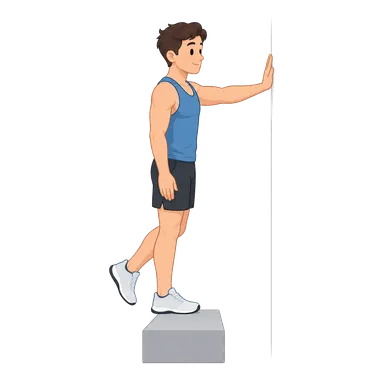
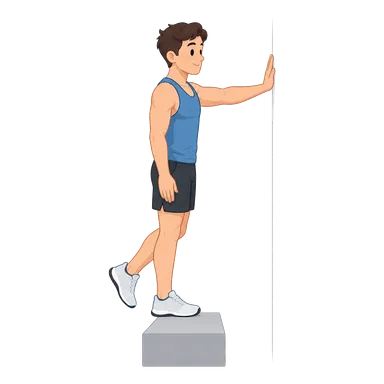
Laps on a phone: the zone square, no key; calf-raise finish picture dropped
The zone key and the Z label beside each lap are gone again: the Time in
zone panel above the laps already names every colour, and the steps tables
and the ride diagram name theirs. On a phone a lap's zone is a small square
at the start of its row, as in the steps table, one line per lap. The ride
page and Progress keep their plain text key as before.
The calf raise's finish picture is left out (a heel lift does not read at
tile size); the script skips it, the list has 47 finish pictures.

Claude-Session: https://claude.ai/code/session_01PXXhDtRN2pQ9cXAmNak7te

diff --git a/src/ui/RideCharts.tsx b/src/ui/RideCharts.tsx
@@ -1,4 +1,3 @@
-import { ZoneKey } from './ZoneKey';
 import type { StreamSet } from '../data/db';
 import { clock } from '../engine/workout';
 import { HR_ZONES, POWER_ZONES, hrZone, powerZone, type Zone } from '../engine/zones';
@@ -53,14 +52,14 @@ export function LapsTable({ intervals, ftp, lthr, hrZones = HR_ZONES, powerZones
   return (
     <>
       <table class="steps laps">
-        <tr><td class="faint small lap-num">#</td><td class="faint small">Lap</td><td class="r faint small">Time</td>{distance?.length ? <td class="r faint small">Pace (per {imperial ? 'mile' : 'km'})</td> : null}{showPower && <td class="r faint small">Avg power</td>}<td class="r faint small">Avg HR</td><td class="faint small lap-barcol"><span class="wide-only">{byW ? `Power against FTP ${ftp} W` : `Heart rate against threshold ${lthr} bpm`}</span><span class="narrow-only r">Zone,<br />{byW ? '% of FTP' : '% of threshold'}</span></td></tr>
+        <tr><td class="faint small"><span class="wide-only">#</span></td><td class="faint small">Lap</td><td class="r faint small">Time</td>{distance?.length ? <td class="r faint small">Pace (per {imperial ? 'mile' : 'km'})</td> : null}{showPower && <td class="r faint small"><span class="wide-only">Avg power</span><span class="narrow-only">Power</span></td>}<td class="r faint small"><span class="wide-only">Avg HR</span><span class="narrow-only">HR</span></td><td class="faint small lap-barcol"><span class="wide-only">{byW ? `Power against FTP ${ftp} W` : `Heart rate against threshold ${lthr} bpm`}</span><span class="narrow-only r">{byW ? '% of FTP' : '% of threshold'}</span></td></tr>
         {rows.map((r, i) => {
           const v = byW ? r.avgWatts ?? 0 : r.avgHr ?? 0;
           const zone = byW ? powerZone(v / ftp, powerZones) : hrZone(v / ref, hrZones);
           const pctOfRef = Math.round((v / ref) * 100);
           return (
             <tr key={i}>
-              <td class="faint lap-num">{i + 1}</td>
+              <td class="faint"><span class="wide-only">{i + 1}</span><span class="z lap-z" style={`background:${ZONE_VAR[zone - 1]}`} /></td>
               <td>{r.label || (r.type ? r.type.charAt(0) + r.type.slice(1).toLowerCase() : `Lap ${i + 1}`)}</td>
               <td class="r num">{clock(Math.round(r.end - r.start))}</td>
               {distance?.length ? <td class="r num">{lapPace(r) ?? '–'}</td> : null}
@@ -69,15 +68,14 @@ export function LapsTable({ intervals, ftp, lthr, hrZones = HR_ZONES, powerZones
               <td class="lap-barcol" title={`${pctOfRef}% of ${byW ? 'FTP' : 'threshold heart rate'} · zone ${zone}`}>
                 <div class="lap-cell">
                   <span class="lap-bar"><span class="zb-track"><span class="zb-fill" style={`width:${Math.min(100, (v / scaleTop) * 100)}%;background:${ZONE_VAR[zone - 1]}`} /></span><span class="lap-ref" style={`left:${refPct}%`} /></span>
-                  <span class="lap-zone"><i style={`background:${ZONE_VAR[zone - 1]}`} />Z{zone}</span><span class="lap-pct faint small">{pctOfRef}%</span>
+                  <span class="lap-pct faint small">{pctOfRef}%</span>
                 </div>
               </td>
             </tr>
           );
         })}
       </table>
-      <ZoneKey style="margin-top:8px" />
-      <p class="faint small" style="margin-top:6px"><span class="wide-only">Each bar is the lap's average {byW ? 'power' : 'heart rate'}, coloured by its zone (the zone is named beside it); the upright tick marks {byW ? 'your FTP' : 'your threshold heart rate'}, and the figure is the lap as a share of it.</span><span class="narrow-only">The last column is the lap's zone and its average {byW ? `power as a share of your FTP (${ftp} W)` : `heart rate as a share of your threshold heart rate (${lthr} bpm)`}.</span> Labels such as "Work" and "Recovery" are Intervals.icu's guess from the recording.</p>
+      <p class="faint small" style="margin-top:8px"><span class="wide-only">Each bar is the lap's average {byW ? 'power' : 'heart rate'}, coloured by its zone; the upright tick marks {byW ? 'your FTP' : 'your threshold heart rate'}, and the figure is the lap as a share of it.</span><span class="narrow-only">The square is the lap's zone, in the colours of Time in zone above; the figure is its average {byW ? `power as a share of your FTP (${ftp} W)` : `heart rate as a share of your threshold heart rate (${lthr} bpm)`}.</span> Labels such as "Work" and "Recovery" are Intervals.icu's guess from the recording.</p>
     </>
   );
 }

diff --git a/src/ui/screens/Help.tsx b/src/ui/screens/Help.tsx
@@ -154,7 +154,7 @@ const SECTIONS: Array<{ id: string; title: string; body: preact.JSX.Element }> =
           <Li><b>Not training</b>: a recording under five minutes (a watch button pressed by accident) or a "ride" at car speed counts 0 and is kept out of the list. A tick box at the top shows them; open one to delete it, or, if it really was a planned session, match it by hand on its page.</Li>
           <Li><b>The recording</b>: the map (green dot start, red finish) stays pinned while the charts scroll under it; move across any chart or along the route and the other follows, and on a planned ride the targets are shaded.</Li>
           <Li><b>Time in zone</b>: power zones and heart-rate zones side by side, with the zone key underneath. Heart rate lags power, so short hard efforts show more in the power zones. "12:48 of 30:38 with heart rate" means the strap only covered part of the activity.</Li>
-          <Li><b>Laps and intervals</b>: each bar is the lap's average power (or heart rate, without power), coloured by its zone; the upright tick is your FTP (or threshold heart rate), and the figure beside it is the lap as a percentage of it. Each lap's zone is named beside it (Z1 to Z7), and a key to the zone colours sits under the table, as it does under every chart and table coloured by zone. On a phone the bar is left out so the table fits the screen. Labels like "Work" and "Recovery" are Intervals.icu's guess from the recording, so a lap called Recovery can still sit in zone 3.</Li>
+          <Li><b>Laps and intervals</b>: each bar is the lap's average power (or heart rate, without power), coloured by its zone; the upright tick is your FTP (or threshold heart rate), and the figure beside it is the lap as a percentage of it. On a phone the bar gives way to a small square in the zone's colour at the start of the row, the same colours as Time in zone above it, so the table fits the screen. Labels like "Work" and "Recovery" are Intervals.icu's guess from the recording, so a lap called Recovery can still sit in zone 3.</Li>
         </ul>
       </>
     ),

diff --git a/src/styles/global.css b/src/styles/global.css
@@ -836,15 +836,17 @@ a.stat-link:hover .l, a.stat-link:focus-visible .l { color: var(--ink-2); }
 
 /* ---- fitting a phone (23 Oct) ---- */
 .narrow-only { display: none; }
+.laps .lap-z { display: none; margin-top: 0; }
 .zone-ed .zone-top { width: 72px; }
 @media (max-width: 520px) {
   .wide-only { display: none; }
   .narrow-only { display: inline; }
-  .laps td { padding: 8px 4px; font-size: 13px; }
-  .laps .lap-num { display: none; }
+  .laps td { padding: 8px 3px; font-size: 13px; }
+  .laps .lap-pct { width: auto; }
   .laps .lap-barcol { width: auto; min-width: 0; text-align: right; }
   .laps .lap-cell { justify-content: flex-end; gap: 5px; }
   .laps .lap-bar { display: none; }
+  .laps .lap-z { display: inline-block; }
   .zone-ed.mode-pct .zone-pct, .zone-ed.mode-abs .zone-abs { display: none; }
   .zone-ed td { padding: 8px 4px; }
   .zone-ed .zone-top { width: 60px; }
@@ -853,10 +855,3 @@ a.stat-link:hover .l, a.stat-link:focus-visible .l { color: var(--ink-2); }
 }
 @media (max-width: 520px) { .laps tr:first-child td { white-space: normal; } }
 @media (max-width: 520px) { .zone-ed .zone-top { width: 64px; padding-left: 6px; padding-right: 6px; } }
-
-/* the key to the zone colours, and a lap's zone */
-.zone-key { display: flex; flex-wrap: wrap; gap: 4px 12px; margin: 0; }
-.zone-key span { display: inline-flex; align-items: center; gap: 5px; white-space: nowrap; }
-.zone-key i, .lap-zone i { display: inline-block; width: 9px; height: 9px; border-radius: 2px; flex: 0 0 9px; }
-.lap-zone { display: inline-flex; align-items: center; gap: 4px; font-size: 12px; color: var(--ink-2); white-space: nowrap; }
-@media (max-width: 520px) { .laps .lap-cell { flex-direction: column; align-items: flex-end; gap: 1px; } }

diff --git a/src/ui/StepsTable.tsx b/src/ui/StepsTable.tsx
@@ -2,7 +2,6 @@ import type { Basis, Profile, WorkoutBlock, WorkoutStep } from '../engine/types'
 import { formatDuration, stepShare, stepTargets } from '../engine/workout';
 import { powerZone, ridePowerZones } from '../engine/zones';
 import { ZONE_VAR } from './Profile';
-import { ZoneKey } from './ZoneKey';
 
 /** A ride's steps with their targets in watts or bpm; sets show as a heading over the steps they repeat. */
 export function StepsTable({ blocks, basis, profile }: { blocks: WorkoutBlock[]; basis: Basis; profile: Profile }) {
@@ -13,7 +12,6 @@ export function StepsTable({ blocks, basis, profile }: { blocks: WorkoutBlock[];
   }
   const ladder = ridePowerZones(profile);
   return (
-    <>
     <table class="steps">
       <tr><td /><td class="faint small">Step</td><td class="r faint small">Time</td><td class="r faint small">% of FTP</td><td class={`r faint small${basis === 'power' ? '' : ' muted basis-off'}`}>Watts</td><td class={`r faint small${basis === 'hr' ? '' : ' muted basis-off'}`}>Heart rate</td></tr>
       {rows.map(({ step, set }, i) => {
@@ -35,7 +33,5 @@ export function StepsTable({ blocks, basis, profile }: { blocks: WorkoutBlock[];
         );
       })}
     </table>
-    <ZoneKey style="margin-top:8px" />
-    </>
   );
 }

diff --git a/src/ui/screens/Rides.tsx b/src/ui/screens/Rides.tsx
@@ -25,8 +25,7 @@ import { addDays, today } from '../../engine/load';
 import { Empty, PageHead, Skeleton } from '../PageHead';
 import { LapsTable, PowerDistribution, ZoneBars } from '../RideCharts';
 import { ZONE_VAR } from '../Profile';
-import { GLOSSARY, ZONE_NAMES } from '../glossary';
-import { ZoneKey } from '../ZoneKey';
+import { GLOSSARY, ZONE_KEY, ZONE_NAMES } from '../glossary';
 import { KindStack } from '../Glance';
 import { hoursLabel, type WeekSummary } from '../week';
 
@@ -296,7 +295,7 @@ function RideDetail({ ride: r, data }: { ride: Ride; data: AppData }) {
             {r.hrZoneSeconds?.length ? <ZoneBars title="Heart-rate zones" seconds={r.hrZoneSeconds} /> : null}
           </div>
           {[isRide ? coverage(r.powerZoneSeconds, r.seconds, 'power') : null, coverage(r.hrZoneSeconds, r.seconds, 'heart rate')].filter(Boolean).map((t) => <p class="faint small" key={t!} style="margin-top:6px">{t}</p>)}
-          <ZoneKey style="margin-top:6px" />
+          <p class="faint small" style="margin-top:6px">{ZONE_KEY}</p>
         </section>
       )}
       {isRide && streams?.watts?.length ? (

diff --git a/src/ui/screens/Progress.tsx b/src/ui/screens/Progress.tsx
@@ -24,7 +24,7 @@ import { buildPowerCurves } from '../powerCurves';
 import { getActivePlan, type ActivePlan } from '../planService';
 import type { Ride, SessionKind } from '../../engine/types';
 import { ZONE_VAR } from '../Profile';
-import { ZoneKey } from '../ZoneKey';
+import { ZONE_KEY } from '../glossary';
 
 const KINDS: Array<{ k: SessionKind; name: string; color: string }> = [
   { k: 'ride', name: 'Rides', color: 'var(--ride)' },
@@ -176,7 +176,7 @@ function ZonesCard({ rides, from, to }: { rides: Ride[]; from: string; to: strin
         height={180}
         readout={(i) => { const w = weeks[i]; const tot = w.seconds.reduce((a, b) => a + b, 0) || 1; return `Week of ${short(w.start)} · ${w.seconds.map((s, z) => s > 0 ? `Z${z + 1} ${share ? `${Math.round((s / tot) * 100)}%` : `${hours(s)} h`}` : null).filter(Boolean).join(' · ') || 'no ride time'}`; }}
       />
-      <ZoneKey style="margin-top:6px" />
+      <p class="faint small" style="margin-top:6px">{ZONE_KEY}</p>
     </Card>
   );
 }

diff --git a/src/art/pictures.test.ts b/src/art/pictures.test.ts
@@ -15,8 +15,10 @@ describe('the exercise pictures', () => {
     for (const id of Object.keys(poses)) expect(known.has(id), id).toBe(true);
     expect(Object.keys(poses)).toHaveLength(86);
   });
-  it('has 48 finish pictures', () => {
-    expect(Object.values(poses).filter((p) => p.includes('b'))).toHaveLength(48);
+  it('has 47 finish pictures', () => {
+    // 48 drawn; the calf raise's finish is left out (a heel lift does not read at tile size).
+    expect(Object.values(poses).filter((p) => p.includes('b'))).toHaveLength(47);
+    expect(poses['calf-raise']).toEqual(['a']);
   });
 });
 
